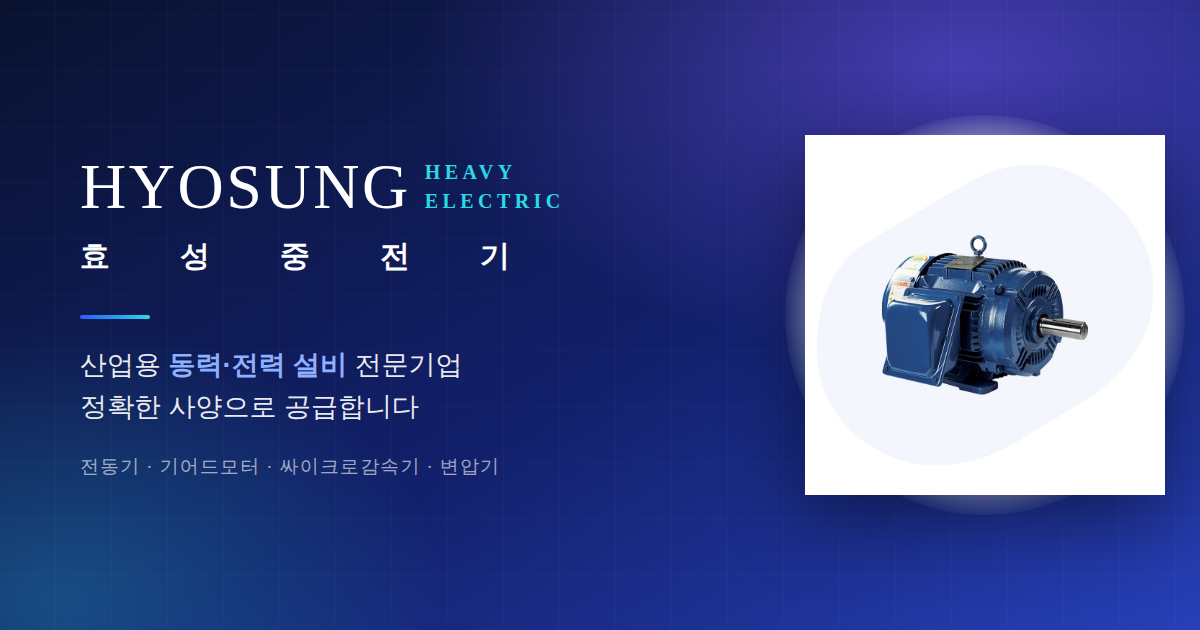
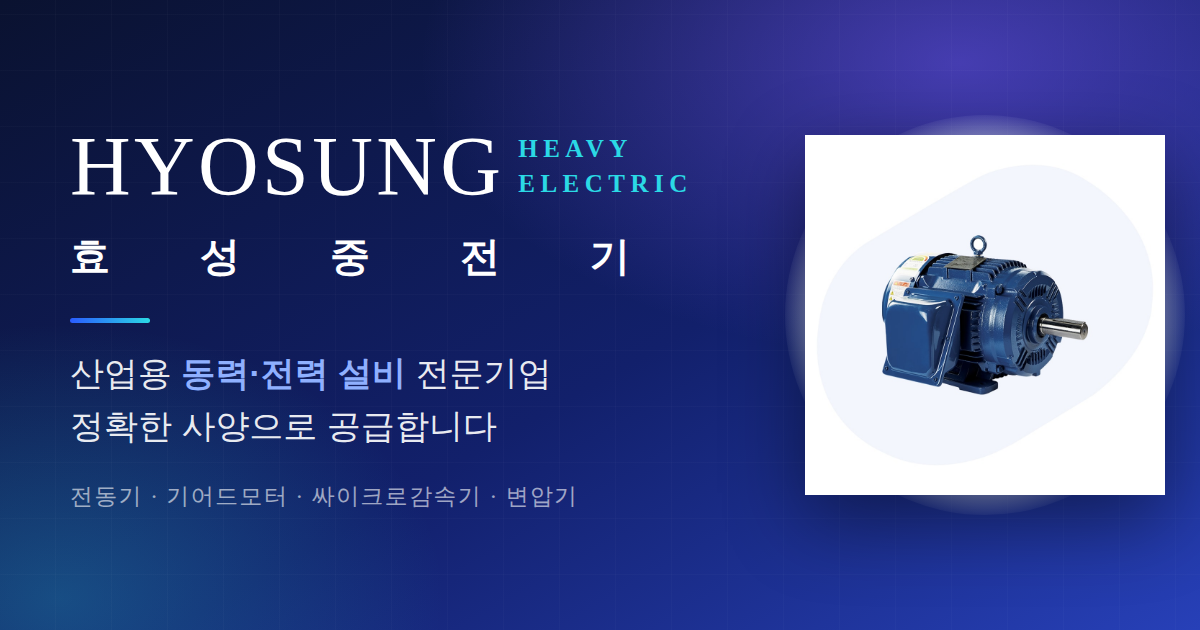
OG 이미지 글자 확대

diff --git a/_gen/og.html b/_gen/og.html
@@ -9,15 +9,15 @@ body{margin:0;font-family:'Noto Sans KR',sans-serif}
 .og::after{content:"";position:absolute;inset:0;background:
   repeating-linear-gradient(0deg,transparent,transparent 55px,rgba(255,255,255,.04) 56px),
   repeating-linear-gradient(90deg,transparent,transparent 55px,rgba(255,255,255,.04) 56px)}
-.left{position:relative;z-index:2;padding:0 0 0 80px;flex:1}
+.left{position:relative;z-index:2;padding:0 0 0 70px;flex:1}
 .lrow{display:flex;align-items:center;gap:14px}
-.en{font-family:'Marcellus',serif;font-size:64px;letter-spacing:.04em}
-.he{display:flex;flex-direction:column;gap:6px;font-family:'Outfit';font-size:20px;letter-spacing:.22em;color:#2BD9E5;font-weight:600}
-.kr{display:flex;justify-content:space-between;width:430px;font-size:30px;font-weight:700;margin-top:12px}
-.line{width:70px;height:4px;border-radius:4px;background:linear-gradient(90deg,#2A5CFF,#2BD9E5);margin:38px 0 26px}
-.desc{font-size:27px;font-weight:500;line-height:1.55;color:rgba(255,255,255,.92)}
+.en{font-family:'Marcellus',serif;font-size:84px;letter-spacing:.04em}
+.he{display:flex;flex-direction:column;gap:7px;font-family:'Outfit';font-size:25px;letter-spacing:.22em;color:#2BD9E5;font-weight:600}
+.kr{display:flex;justify-content:space-between;width:560px;font-size:40px;font-weight:700;margin-top:14px}
+.line{width:80px;height:5px;border-radius:4px;background:linear-gradient(90deg,#2A5CFF,#2BD9E5);margin:34px 0 24px}
+.desc{font-size:34px;font-weight:500;line-height:1.55;color:rgba(255,255,255,.92)}
 .desc b{color:#8FB0FF}
-.items{margin-top:26px;font-family:'Outfit','Noto Sans KR';font-size:19px;letter-spacing:.06em;color:rgba(255,255,255,.6)}
+.items{margin-top:28px;font-family:'Outfit','Noto Sans KR';font-size:23px;letter-spacing:.06em;color:rgba(255,255,255,.6)}
 .right{position:relative;z-index:2;width:430px;height:100%;display:flex;align-items:center;justify-content:center}
 .orb{position:absolute;width:400px;height:400px;border-radius:50%;background:radial-gradient(circle,rgba(255,255,255,.95),rgba(220,230,255,.85) 55%,transparent 72%)}
 .right img{position:relative;width:360px;filter:drop-shadow(0 24px 40px rgba(0,0,0,.45))}
